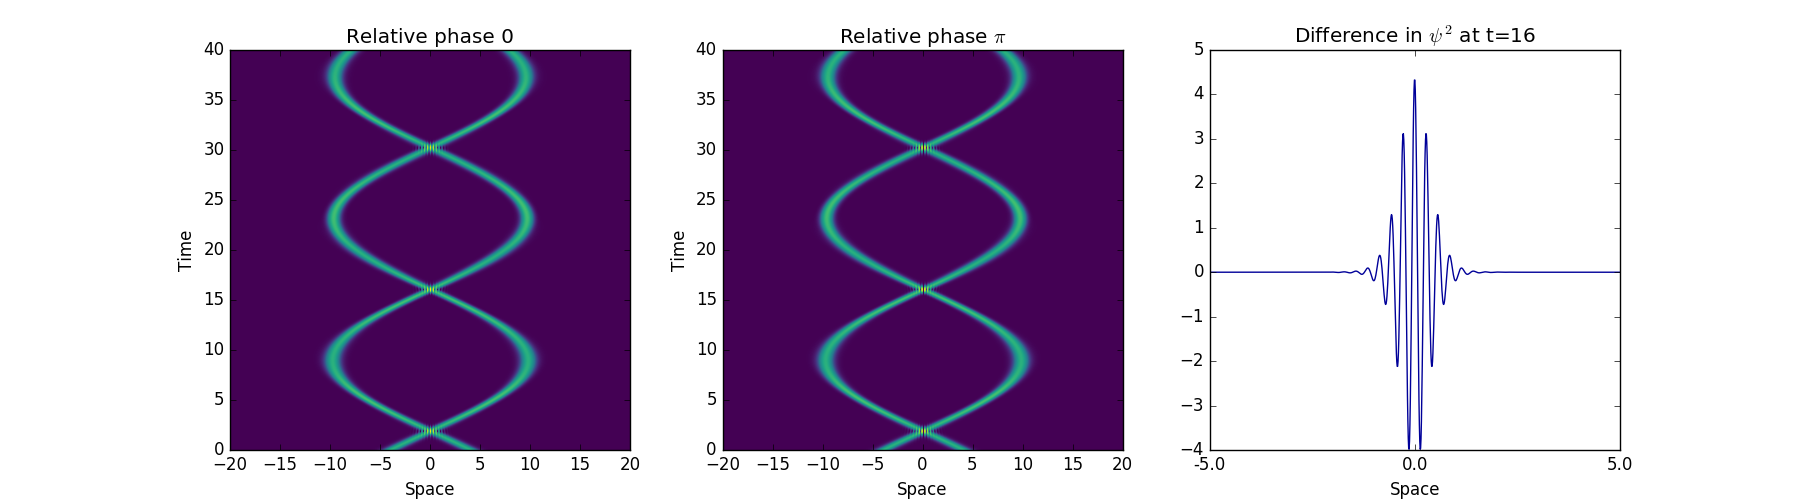
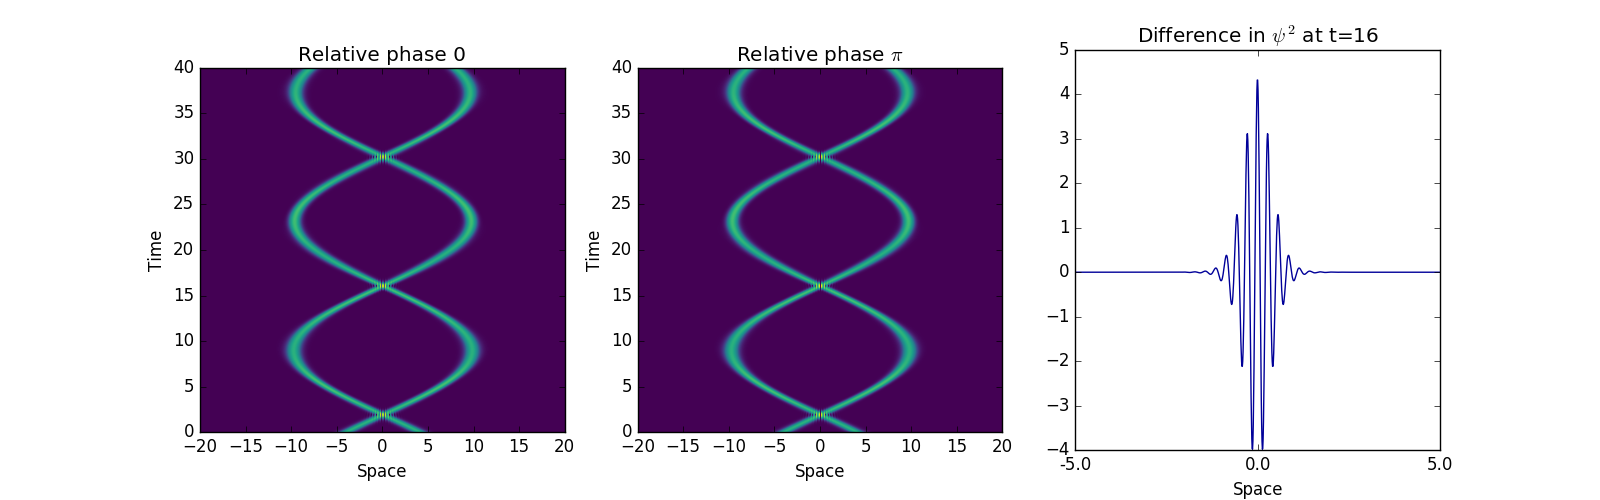
Graph improvements

diff --git a/extension-v3.py b/extension-v3.py
@@ -112,12 +112,12 @@ pyplot.subplot(232)
 pyplot.imshow(np.transpose(testpsi2), extent=(-10,10,0,20), origin='lower', cmap='viridis') 
 pyplot.xlabel("Space")
 pyplot.ylabel("Time")
-pyplot.title("Relative phase {}".format(rel_phase2))
+pyplot.title("Relative phase " + r'$\pi$')
 #pyplot.savefig('rel_phase_pi.png')
 
 #one minus the other to show where fringes are 
 pyplot.subplot(233)
-pyplot.plot(difference1[:,900])
+pyplot.plot(difference1[:,900], color="#000099")
 pyplot.xlabel("Space")
 pyplot.xticks(np.array([0,500,1000,1500,2000]),np.array([-10.0,-5.0,0.0,5.0,10.0]))
 pyplot.title("Difference in "  + r'$\psi^2$' + " at t=9")
@@ -134,12 +134,12 @@ pyplot.subplot(235)
 pyplot.imshow(np.transpose(testpsi4), extent=(-10,10,0,20), origin='lower', cmap='viridis') 
 pyplot.xlabel("Space")
 pyplot.ylabel("Time")
-pyplot.title("Relative phase {}".format(rel_phase2))
+pyplot.title("Relative phase " + r'$\pi$')
 #pyplot.savefig('rel_phase_pi.png')
 
 #one minus the other to show where fringes are 
 pyplot.subplot(236)
-pyplot.plot(difference2[:,1000])
+pyplot.plot(difference2[:,1000], color="#000099")
 pyplot.xlabel("Space")
 pyplot.xticks(np.array([0,500,1000,1500,2000]),np.array([-10.0,-5.0,0.0,5.0,10.0]))
 pyplot.title("Difference in "  + r'$\psi^2$' + " at t=10")

diff --git a/milestone-v8.py b/milestone-v8.py
@@ -64,11 +64,12 @@ def soliton(velocity):
 	return psi_initial
 
 def accuracy_test(g_test,t):
+    #uses rectangle method 
     psisquareds_test = schrodinger_time_evolution(soliton(0), 0, g_test)
     t = int(t/dt) #taking timestep into account and making sure it's an integer as it is used for indexing 
-    norm = np.sum(psisquareds_test[750:1250,:],0) # sum over axis 0, e.g. space between -2 and 2
-    #print "norm at 0: {}".format(norm[0])
-    #print "norm at 1.999: {}".format(norm[t])
+    norm = np.sum(psisquareds_test[750:1250,:],0)*dt # sum over axis 0, e.g. space between -2 and 2, multiplied by dt as each point is multiplied by dt 
+    print "norm at 0: {}".format(norm[0])
+    print "norm at 1.999: {}".format(norm[t])
     accuracy = abs(norm[0] - norm[t])*100/norm[0] #percentage change in norm 
     return accuracy
 

diff --git a/extension-v4-repeated.py b/extension-v4-repeated.py
@@ -110,7 +110,7 @@ for ig,g in enumerate(gs):
     
     
     ########## PLOTS ############
-    pyplot.figure(figsize=(18,5))
+    pyplot.figure(figsize=(16,5))
     #pyplot.suptitle("g={}".format(g))
     
     pyplot.subplot(131)
